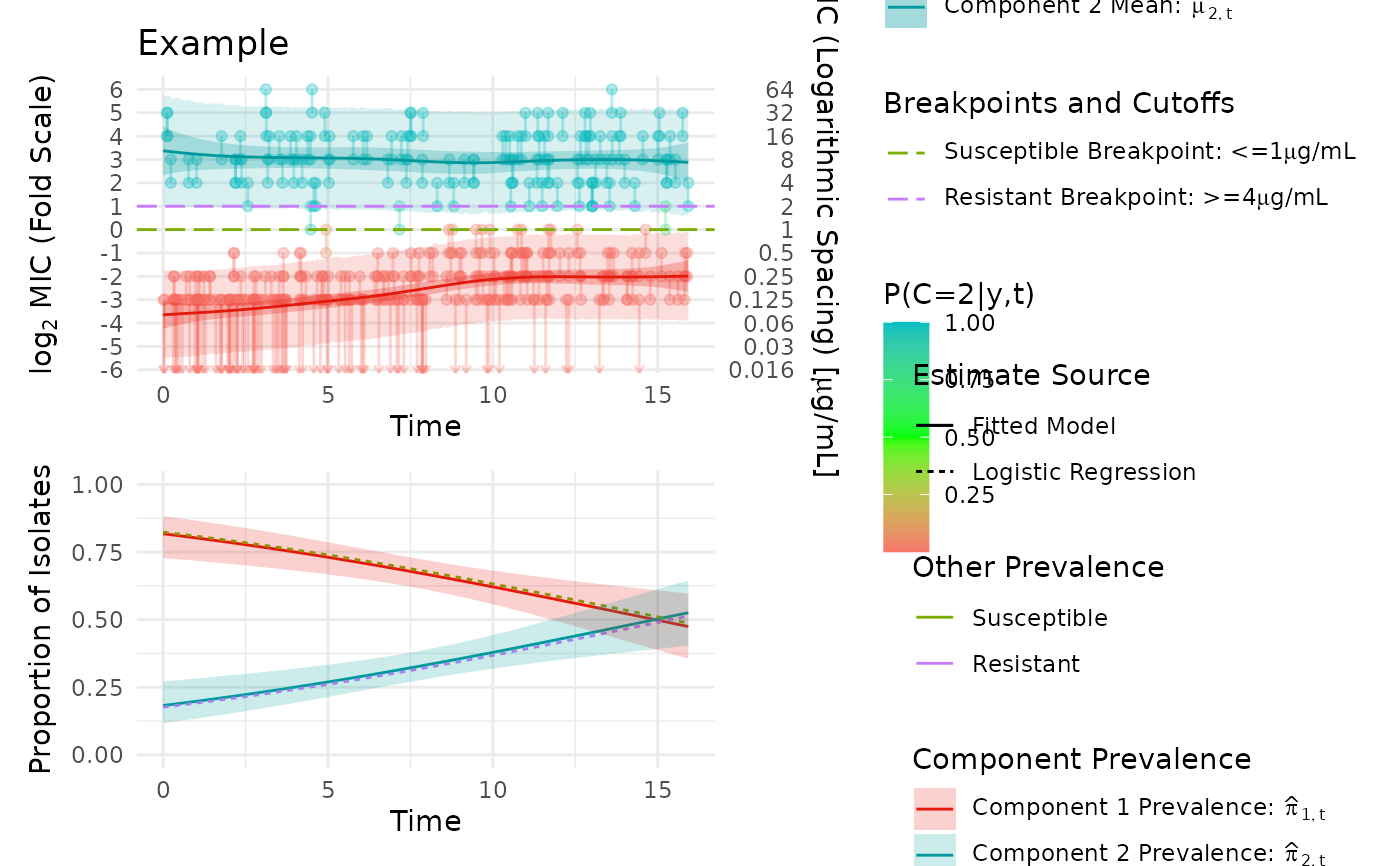
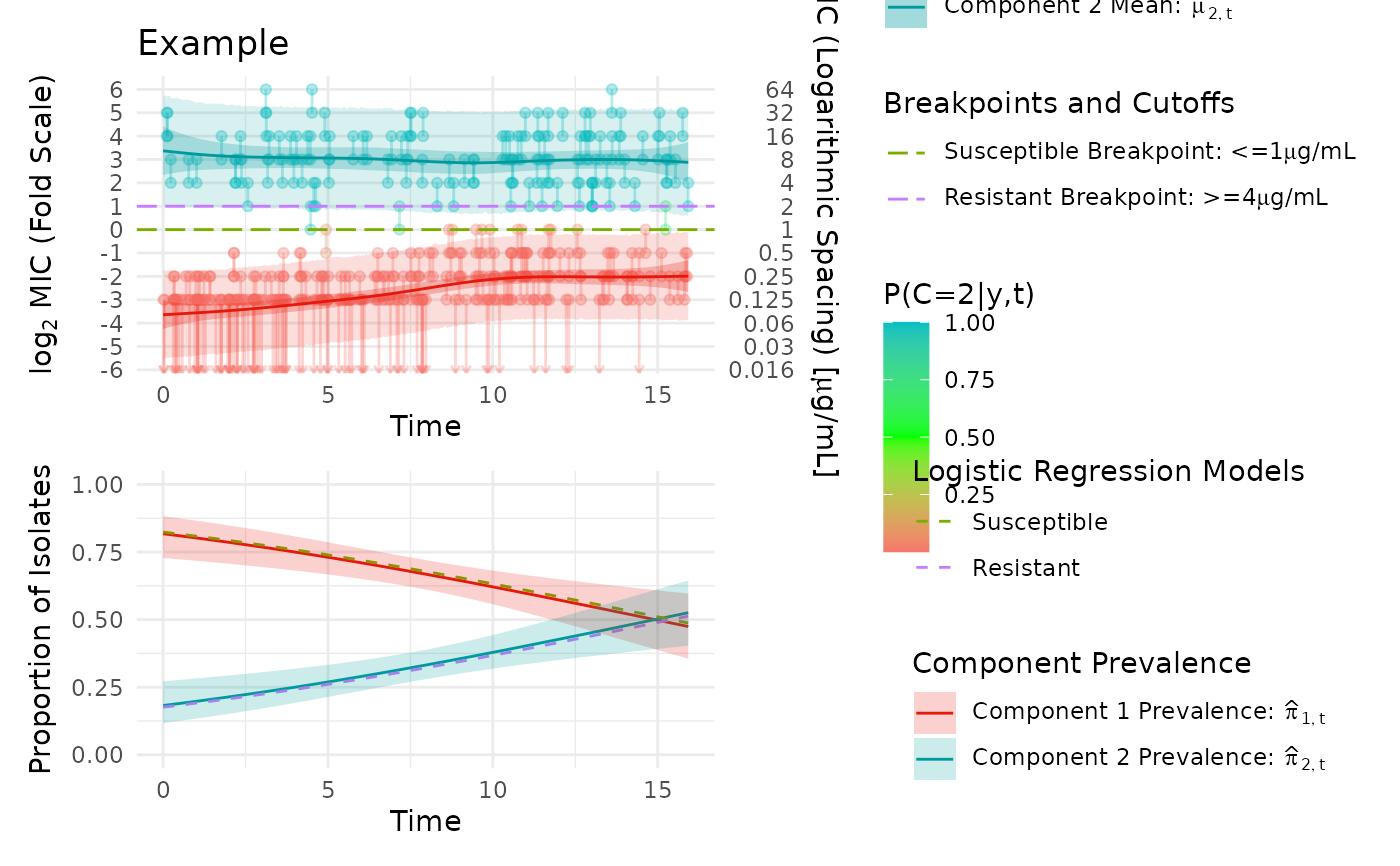
Deploying to gh-pages from @ ajmichaelucd/mic.sim@8d465c9d75e0324f9f1b7e9ba0d1cf62afde2e9e 🚀

diff --git a/reference/plot_mean.html b/reference/plot_mean.html
@@ -1,0 +1,94 @@
+<!DOCTYPE html>
+<!-- Generated by pkgdown: do not edit by hand --><html lang="en"><head><meta http-equiv="Content-Type" content="text/html; charset=UTF-8"><meta charset="utf-8"><meta http-equiv="X-UA-Compatible" content="IE=edge"><meta name="viewport" content="width=device-width, initial-scale=1, shrink-to-fit=no"><title>Title — plot_mean • mic.sim</title><script src="../deps/jquery-3.6.0/jquery-3.6.0.min.js"></script><meta name="viewport" content="width=device-width, initial-scale=1, shrink-to-fit=no"><link href="../deps/bootstrap-5.3.8/bootstrap.min.css" rel="stylesheet"><script src="../deps/bootstrap-5.3.8/bootstrap.bundle.min.js"></script><link href="../deps/font-awesome-6.5.2/css/all.min.css" rel="stylesheet"><link href="../deps/font-awesome-6.5.2/css/v4-shims.min.css" rel="stylesheet"><script src="../deps/headroom-0.11.0/headroom.min.js"></script><script src="../deps/headroom-0.11.0/jQuery.headroom.min.js"></script><script src="../deps/bootstrap-toc-1.0.1/bootstrap-toc.min.js"></script><script src="../deps/clipboard.js-2.0.11/clipboard.min.js"></script><script src="../deps/search-1.0.0/autocomplete.jquery.min.js"></script><script src="../deps/search-1.0.0/fuse.min.js"></script><script src="../deps/search-1.0.0/mark.min.js"></script><!-- pkgdown --><script src="../pkgdown.js"></script><meta property="og:title" content="Title — plot_mean"><meta name="description" content="Title"><meta property="og:description" content="Title"></head><body>
+    <a href="#main" class="visually-hidden-focusable">Skip to contents</a>
+
+
+    <nav class="navbar navbar-expand-lg fixed-top bg-light" data-bs-theme="light" aria-label="Site navigation"><div class="container">
+
+    <a class="navbar-brand me-2" href="../index.html">mic.sim</a>
+
+    <small class="nav-text text-muted me-auto" data-bs-toggle="tooltip" data-bs-placement="bottom" title="">0.2.1</small>
+
+
+    <button class="navbar-toggler" type="button" data-bs-toggle="collapse" data-bs-target="#navbar" aria-controls="navbar" aria-expanded="false" aria-label="Toggle navigation">
+      <span class="navbar-toggler-icon"></span>
+    </button>
+
+    <div id="navbar" class="collapse navbar-collapse ms-3">
+      <ul class="navbar-nav me-auto"><li class="active nav-item"><a class="nav-link" href="../reference/index.html">Reference</a></li>
+<li class="nav-item dropdown">
+  <button class="nav-link dropdown-toggle" type="button" id="dropdown-articles" data-bs-toggle="dropdown" aria-expanded="false" aria-haspopup="true">Articles</button>
+  <ul class="dropdown-menu" aria-labelledby="dropdown-articles"><li><a class="dropdown-item" href="../articles/Fit-EM-Options.html">Fit EM Options</a></li>
+    <li><a class="dropdown-item" href="../articles/Import-and-Fit-Model.html">Import and Fit Model</a></li>
+    <li><a class="dropdown-item" href="../articles/Reduced-Model.html">Reduced Model</a></li>
+  </ul></li>
+      </ul><ul class="navbar-nav"><li class="nav-item"><form class="form-inline" role="search">
+ <input class="form-control" type="search" name="search-input" id="search-input" autocomplete="off" aria-label="Search site" placeholder="Search for" data-search-index="../search.json"></form></li>
+<li class="nav-item"><a class="external-link nav-link" href="https://github.com/ajmichaelucd/mic.sim/" aria-label="GitHub"><span class="fa fab fa-github fa-lg"></span></a></li>
+      </ul></div>
+
+
+  </div>
+</nav><div class="container template-reference-topic">
+<div class="row">
+  <main id="main" class="col-md-9"><div class="page-header">
+
+      <h1>Title</h1>
+      <small class="dont-index">Source: <a href="https://github.com/ajmichaelucd/mic.sim/blob/main/R/plot_mean.R" class="external-link"><code>R/plot_mean.R</code></a></small>
+      <div class="d-none name"><code>plot_mean.Rd</code></div>
+    </div>
+
+    <div class="ref-description section level2">
+    <p>Title</p>
+    </div>
+
+    <div class="section level2">
+    <h2 id="ref-usage">Usage<a class="anchor" aria-label="anchor" href="#ref-usage"></a></h2>
+    <div class="sourceCode"><pre class="sourceCode r"><code><span><span class="fu">plot_mean</span><span class="op">(</span></span>
+<span>  <span class="va">output</span>,</span>
+<span>  <span class="va">df</span>,</span>
+<span>  <span class="va">results</span>,</span>
+<span>  <span class="va">start_date</span>,</span>
+<span>  <span class="va">fitted_comp</span>,</span>
+<span>  <span class="va">title</span>,</span>
+<span>  <span class="va">plot_min</span>,</span>
+<span>  <span class="va">plot_max</span>,</span>
+<span>  <span class="va">ecoff</span>,</span>
+<span>  <span class="va">s_breakpoint</span>,</span>
+<span>  <span class="va">r_breakpoint</span>,</span>
+<span>  <span class="va">visual_split</span>,</span>
+<span>  <span class="va">x_axis_t_breaks</span>,</span>
+<span>  <span class="va">assumed_components</span>,</span>
+<span>  <span class="va">n_fitted_components</span></span>
+<span><span class="op">)</span></span></code></pre></div>
+    </div>
+
+    <div class="section level2">
+    <h2 id="arguments">Arguments<a class="anchor" aria-label="anchor" href="#arguments"></a></h2>
+
+
+<dl><dt id="arg-n-fitted-components">n_fitted_components<a class="anchor" aria-label="anchor" href="#arg-n-fitted-components"></a></dt>
+<dd></dd>
+
+</dl></div>
+
+  </main><aside class="col-md-3"><nav id="toc" aria-label="Table of contents"><h2>On this page</h2>
+    </nav></aside></div>
+
+
+    <footer><div class="pkgdown-footer-left">
+  <p>Developed by Alec Michael.</p>
+</div>
+
+<div class="pkgdown-footer-right">
+  <p>Site built with <a href="https://pkgdown.r-lib.org/" class="external-link">pkgdown</a> 2.2.0.</p>
+</div>
+
+    </footer></div>
+
+
+
+
+
+  </body></html>
+

diff --git a/reference/plot_pi.html b/reference/plot_pi.html
@@ -1,0 +1,89 @@
+<!DOCTYPE html>
+<!-- Generated by pkgdown: do not edit by hand --><html lang="en"><head><meta http-equiv="Content-Type" content="text/html; charset=UTF-8"><meta charset="utf-8"><meta http-equiv="X-UA-Compatible" content="IE=edge"><meta name="viewport" content="width=device-width, initial-scale=1, shrink-to-fit=no"><title>Title — plot_pi • mic.sim</title><script src="../deps/jquery-3.6.0/jquery-3.6.0.min.js"></script><meta name="viewport" content="width=device-width, initial-scale=1, shrink-to-fit=no"><link href="../deps/bootstrap-5.3.8/bootstrap.min.css" rel="stylesheet"><script src="../deps/bootstrap-5.3.8/bootstrap.bundle.min.js"></script><link href="../deps/font-awesome-6.5.2/css/all.min.css" rel="stylesheet"><link href="../deps/font-awesome-6.5.2/css/v4-shims.min.css" rel="stylesheet"><script src="../deps/headroom-0.11.0/headroom.min.js"></script><script src="../deps/headroom-0.11.0/jQuery.headroom.min.js"></script><script src="../deps/bootstrap-toc-1.0.1/bootstrap-toc.min.js"></script><script src="../deps/clipboard.js-2.0.11/clipboard.min.js"></script><script src="../deps/search-1.0.0/autocomplete.jquery.min.js"></script><script src="../deps/search-1.0.0/fuse.min.js"></script><script src="../deps/search-1.0.0/mark.min.js"></script><!-- pkgdown --><script src="../pkgdown.js"></script><meta property="og:title" content="Title — plot_pi"><meta name="description" content="Title"><meta property="og:description" content="Title"></head><body>
+    <a href="#main" class="visually-hidden-focusable">Skip to contents</a>
+
+
+    <nav class="navbar navbar-expand-lg fixed-top bg-light" data-bs-theme="light" aria-label="Site navigation"><div class="container">
+
+    <a class="navbar-brand me-2" href="../index.html">mic.sim</a>
+
+    <small class="nav-text text-muted me-auto" data-bs-toggle="tooltip" data-bs-placement="bottom" title="">0.2.1</small>
+
+
+    <button class="navbar-toggler" type="button" data-bs-toggle="collapse" data-bs-target="#navbar" aria-controls="navbar" aria-expanded="false" aria-label="Toggle navigation">
+      <span class="navbar-toggler-icon"></span>
+    </button>
+
+    <div id="navbar" class="collapse navbar-collapse ms-3">
+      <ul class="navbar-nav me-auto"><li class="active nav-item"><a class="nav-link" href="../reference/index.html">Reference</a></li>
+<li class="nav-item dropdown">
+  <button class="nav-link dropdown-toggle" type="button" id="dropdown-articles" data-bs-toggle="dropdown" aria-expanded="false" aria-haspopup="true">Articles</button>
+  <ul class="dropdown-menu" aria-labelledby="dropdown-articles"><li><a class="dropdown-item" href="../articles/Fit-EM-Options.html">Fit EM Options</a></li>
+    <li><a class="dropdown-item" href="../articles/Import-and-Fit-Model.html">Import and Fit Model</a></li>
+    <li><a class="dropdown-item" href="../articles/Reduced-Model.html">Reduced Model</a></li>
+  </ul></li>
+      </ul><ul class="navbar-nav"><li class="nav-item"><form class="form-inline" role="search">
+ <input class="form-control" type="search" name="search-input" id="search-input" autocomplete="off" aria-label="Search site" placeholder="Search for" data-search-index="../search.json"></form></li>
+<li class="nav-item"><a class="external-link nav-link" href="https://github.com/ajmichaelucd/mic.sim/" aria-label="GitHub"><span class="fa fab fa-github fa-lg"></span></a></li>
+      </ul></div>
+
+
+  </div>
+</nav><div class="container template-reference-topic">
+<div class="row">
+  <main id="main" class="col-md-9"><div class="page-header">
+
+      <h1>Title</h1>
+      <small class="dont-index">Source: <a href="https://github.com/ajmichaelucd/mic.sim/blob/main/R/plot_pi.R" class="external-link"><code>R/plot_pi.R</code></a></small>
+      <div class="d-none name"><code>plot_pi.Rd</code></div>
+    </div>
+
+    <div class="ref-description section level2">
+    <p>Title</p>
+    </div>
+
+    <div class="section level2">
+    <h2 id="ref-usage">Usage<a class="anchor" aria-label="anchor" href="#ref-usage"></a></h2>
+    <div class="sourceCode"><pre class="sourceCode r"><code><span><span class="fu">plot_pi</span><span class="op">(</span></span>
+<span>  <span class="va">output</span>,</span>
+<span>  <span class="va">df</span>,</span>
+<span>  <span class="va">start_date</span>,</span>
+<span>  <span class="va">add_log_reg</span>,</span>
+<span>  <span class="va">ecoff</span>,</span>
+<span>  <span class="va">s_breakpoint</span>,</span>
+<span>  <span class="va">r_breakpoint</span>,</span>
+<span>  <span class="va">visual_split</span>,</span>
+<span>  <span class="va">skip</span>,</span>
+<span>  <span class="va">x_axis_t_breaks</span></span>
+<span><span class="op">)</span></span></code></pre></div>
+    </div>
+
+    <div class="section level2">
+    <h2 id="arguments">Arguments<a class="anchor" aria-label="anchor" href="#arguments"></a></h2>
+
+
+<dl><dt id="arg-x-axis-t-breaks">x_axis_t_breaks<a class="anchor" aria-label="anchor" href="#arg-x-axis-t-breaks"></a></dt>
+<dd></dd>
+
+</dl></div>
+
+  </main><aside class="col-md-3"><nav id="toc" aria-label="Table of contents"><h2>On this page</h2>
+    </nav></aside></div>
+
+
+    <footer><div class="pkgdown-footer-left">
+  <p>Developed by Alec Michael.</p>
+</div>
+
+<div class="pkgdown-footer-right">
+  <p>Site built with <a href="https://pkgdown.r-lib.org/" class="external-link">pkgdown</a> 2.2.0.</p>
+</div>
+
+    </footer></div>
+
+
+
+
+
+  </body></html>
+

diff --git a/reference/mic.sim-package.html b/reference/mic.sim-package.html
@@ -1,5 +1,5 @@
 <!DOCTYPE html>
-<!-- Generated by pkgdown: do not edit by hand --><html lang="en"><head><meta http-equiv="Content-Type" content="text/html; charset=UTF-8"><meta charset="utf-8"><meta http-equiv="X-UA-Compatible" content="IE=edge"><meta name="viewport" content="width=device-width, initial-scale=1, shrink-to-fit=no"><title>mic.sim: What the Package Does (Title Case) — mic.sim-package • mic.sim</title><script src="../deps/jquery-3.6.0/jquery-3.6.0.min.js"></script><meta name="viewport" content="width=device-width, initial-scale=1, shrink-to-fit=no"><link href="../deps/bootstrap-5.3.8/bootstrap.min.css" rel="stylesheet"><script src="../deps/bootstrap-5.3.8/bootstrap.bundle.min.js"></script><link href="../deps/font-awesome-6.5.2/css/all.min.css" rel="stylesheet"><link href="../deps/font-awesome-6.5.2/css/v4-shims.min.css" rel="stylesheet"><script src="../deps/headroom-0.11.0/headroom.min.js"></script><script src="../deps/headroom-0.11.0/jQuery.headroom.min.js"></script><script src="../deps/bootstrap-toc-1.0.1/bootstrap-toc.min.js"></script><script src="../deps/clipboard.js-2.0.11/clipboard.min.js"></script><script src="../deps/search-1.0.0/autocomplete.jquery.min.js"></script><script src="../deps/search-1.0.0/fuse.min.js"></script><script src="../deps/search-1.0.0/mark.min.js"></script><!-- pkgdown --><script src="../pkgdown.js"></script><meta property="og:title" content="mic.sim: What the Package Does (Title Case) — mic.sim-package"><meta name="description" content="More about what it does (maybe more than one line) Use four spaces when indenting paragraphs within the Description."><meta property="og:description" content="More about what it does (maybe more than one line) Use four spaces when indenting paragraphs within the Description."></head><body>
+<!-- Generated by pkgdown: do not edit by hand --><html lang="en"><head><meta http-equiv="Content-Type" content="text/html; charset=UTF-8"><meta charset="utf-8"><meta http-equiv="X-UA-Compatible" content="IE=edge"><meta name="viewport" content="width=device-width, initial-scale=1, shrink-to-fit=no"><title>mic.sim: Simulating and Fitting Models to MIC Data — mic.sim-package • mic.sim</title><script src="../deps/jquery-3.6.0/jquery-3.6.0.min.js"></script><meta name="viewport" content="width=device-width, initial-scale=1, shrink-to-fit=no"><link href="../deps/bootstrap-5.3.8/bootstrap.min.css" rel="stylesheet"><script src="../deps/bootstrap-5.3.8/bootstrap.bundle.min.js"></script><link href="../deps/font-awesome-6.5.2/css/all.min.css" rel="stylesheet"><link href="../deps/font-awesome-6.5.2/css/v4-shims.min.css" rel="stylesheet"><script src="../deps/headroom-0.11.0/headroom.min.js"></script><script src="../deps/headroom-0.11.0/jQuery.headroom.min.js"></script><script src="../deps/bootstrap-toc-1.0.1/bootstrap-toc.min.js"></script><script src="../deps/clipboard.js-2.0.11/clipboard.min.js"></script><script src="../deps/search-1.0.0/autocomplete.jquery.min.js"></script><script src="../deps/search-1.0.0/fuse.min.js"></script><script src="../deps/search-1.0.0/mark.min.js"></script><!-- pkgdown --><script src="../pkgdown.js"></script><meta property="og:title" content="mic.sim: Simulating and Fitting Models to MIC Data — mic.sim-package"><meta name="description" content="mic.sim includes functions for analyzing minimum inhibitory concentration data, including functions for importing or simulating data, viewing the distribution, model fitting, and model visualization. The model fitting uses a latent Gaussian mixture model framework to analyze trends in the mixture weights and component means on the log2 MIC scale to attempt to distinguish and model the wild type and non-wild type subpopulations."><meta property="og:description" content="mic.sim includes functions for analyzing minimum inhibitory concentration data, including functions for importing or simulating data, viewing the distribution, model fitting, and model visualization. The model fitting uses a latent Gaussian mixture model framework to analyze trends in the mixture weights and component means on the log2 MIC scale to attempt to distinguish and model the wild type and non-wild type subpopulations."></head><body>
     <a href="#main" class="visually-hidden-focusable">Skip to contents</a>
 
 
@@ -33,13 +33,13 @@
 <div class="row">
   <main id="main" class="col-md-9"><div class="page-header">
 
-      <h1>mic.sim: What the Package Does (Title Case)</h1>
+      <h1>mic.sim: Simulating and Fitting Models to MIC Data</h1>
       <small class="dont-index">Source: <a href="https://github.com/ajmichaelucd/mic.sim/blob/main/R/mic.sim-package.R" class="external-link"><code>R/mic.sim-package.R</code></a></small>
       <div class="d-none name"><code>mic.sim-package.Rd</code></div>
     </div>
 
     <div class="ref-description section level2">
-    <p>More about what it does (maybe more than one line) Use four spaces when indenting paragraphs within the Description.</p>
+    <p>mic.sim includes functions for analyzing minimum inhibitory concentration data, including functions for importing or simulating data, viewing the distribution, model fitting, and model visualization. The model fitting uses a latent Gaussian mixture model framework to analyze trends in the mixture weights and component means on the log2 MIC scale to attempt to distinguish and model the wild type and non-wild type subpopulations.</p>
     </div>
 
 

diff --git a/reference/plot_mean.md b/reference/plot_mean.md
@@ -1,0 +1,29 @@
+# Title
+
+Title
+
+## Usage
+
+``` r
+plot_mean(
+  output,
+  df,
+  results,
+  start_date,
+  fitted_comp,
+  title,
+  plot_min,
+  plot_max,
+  ecoff,
+  s_breakpoint,
+  r_breakpoint,
+  visual_split,
+  x_axis_t_breaks,
+  assumed_components,
+  n_fitted_components
+)
+```
+
+## Arguments
+
+- n_fitted_components:

diff --git a/reference/plot_pi.md b/reference/plot_pi.md
@@ -1,0 +1,24 @@
+# Title
+
+Title
+
+## Usage
+
+``` r
+plot_pi(
+  output,
+  df,
+  start_date,
+  add_log_reg,
+  ecoff,
+  s_breakpoint,
+  r_breakpoint,
+  visual_split,
+  skip,
+  x_axis_t_breaks
+)
+```
+
+## Arguments
+
+- x_axis_t_breaks:

diff --git a/reference/mic.sim-package.md b/reference/mic.sim-package.md
@@ -1,7 +1,12 @@
-# mic.sim: What the Package Does (Title Case)
+# mic.sim: Simulating and Fitting Models to MIC Data
 
-More about what it does (maybe more than one line) Use four spaces when
-indenting paragraphs within the Description.
+mic.sim includes functions for analyzing minimum inhibitory
+concentration data, including functions for importing or simulating
+data, viewing the distribution, model fitting, and model visualization.
+The model fitting uses a latent Gaussian mixture model framework to
+analyze trends in the mixture weights and component means on the log2
+MIC scale to attempt to distinguish and model the wild type and non-wild
+type subpopulations.
 
 ## See also
 